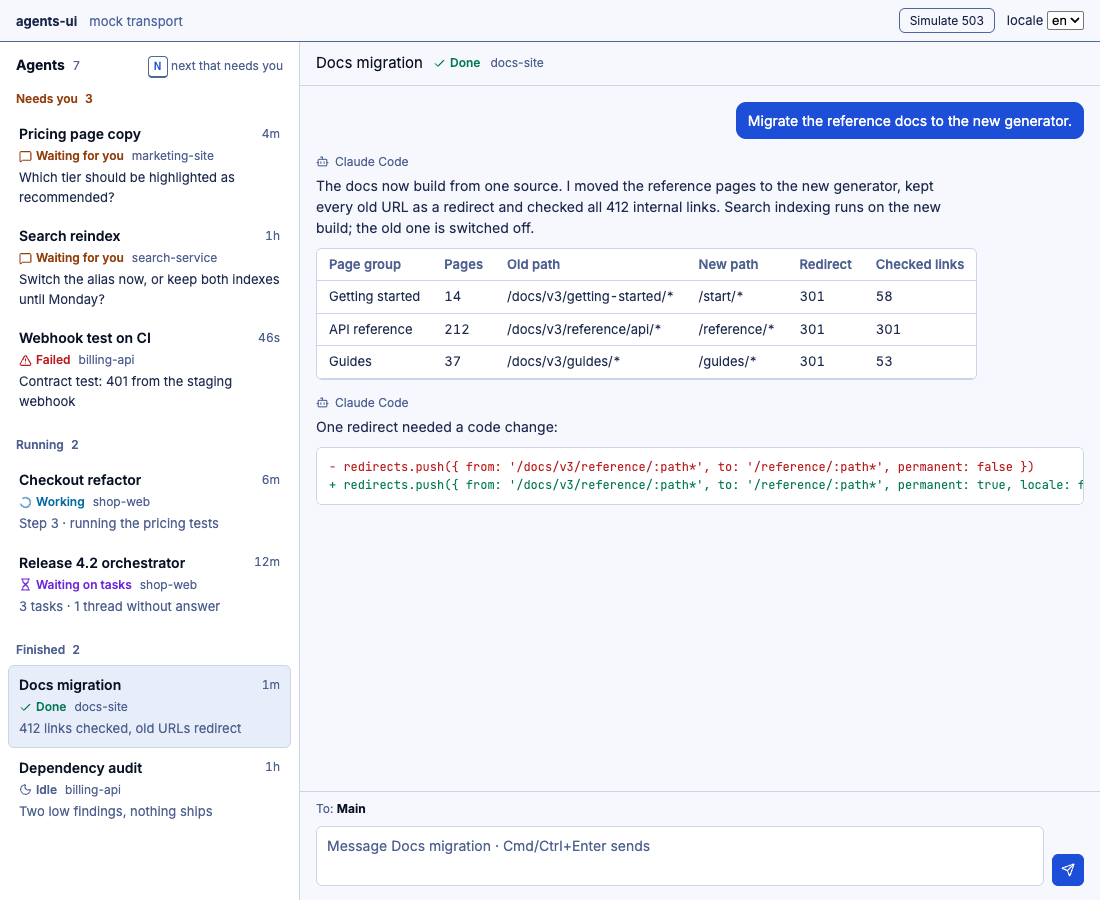
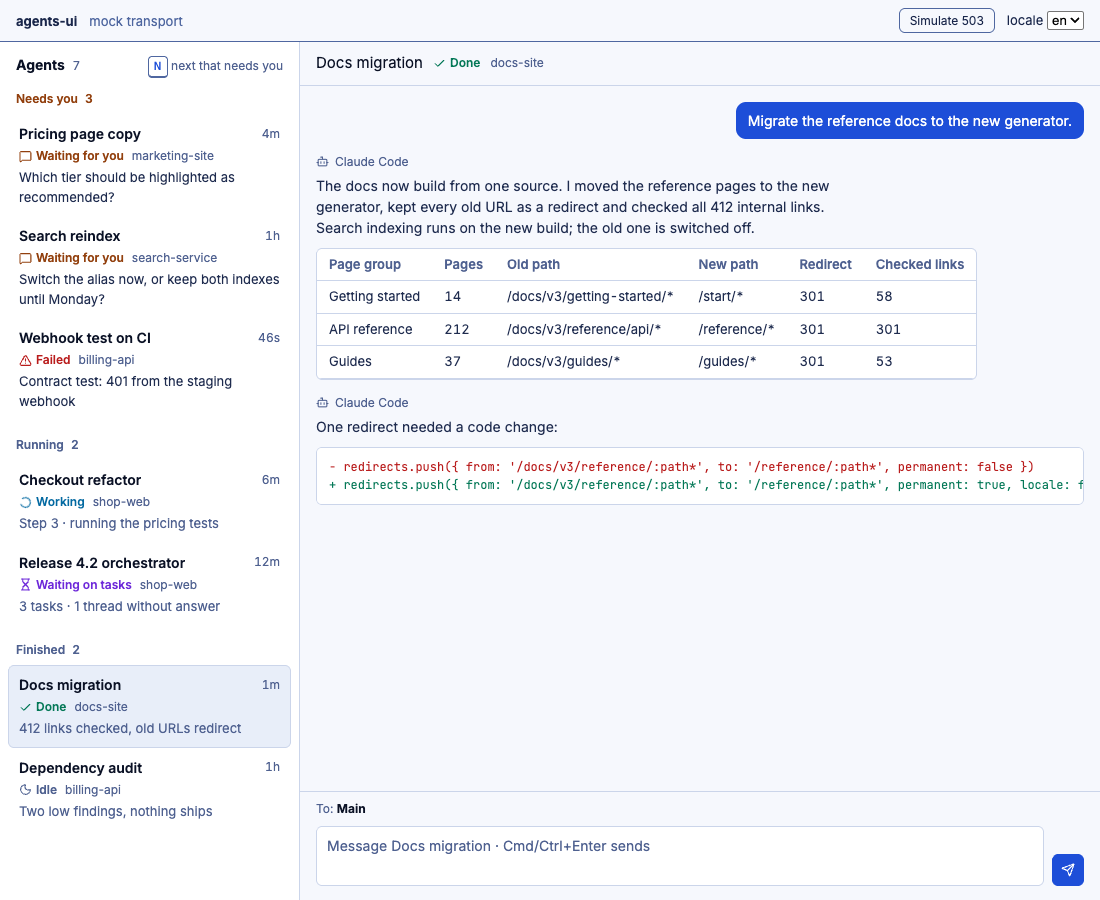
fix(demo): prototype reading width to ~74 characters, working and failed states
ch is the width of 0, so 72ch gave ~93 characters per line in Inter;
60ch measures ~74. Working pane shows its step row, answer has a send button.

Changed region(s): [[0.2782, 0.1867, 0.8655, 0.28]]

diff --git a/demo/prototype.tsx b/demo/prototype.tsx
@@ -180,6 +180,10 @@ const AGENTS: Agent[] = [
         kind: 'main',
         msgs: [
           { from: 'you', text: 'Move the tax rounding into one place and update the call sites.' },
+          {
+            from: 'agent',
+            text: 'Moved the rounding into pricing/round.ts and updated the three call sites. Running the pricing tests now.',
+          },
         ],
       },
     ],
@@ -623,6 +627,12 @@ function Pane({
             <button className="p-btn">Send answer</button>
           </div>
           <p className="p-muted">{agent.question.options.find((o) => o.value === answer)?.hint}</p>
+        </div>
+      )}
+      {agent.state === 'working' && (
+        <div className="p-activity" role="status">
+          <Loader2 size={13} className="p-spin" aria-hidden /> Step 3 of this turn · npm test --
+          pricing · 41 s
         </div>
       )}
       {agent.pills && <PillBar pills={agent.pills} open={pill} onOpen={onPill} />}

diff --git a/demo/prototype.css b/demo/prototype.css
@@ -298,7 +298,7 @@
   margin-bottom: 4px;
 }
 .p-answer p {
-  max-width: 72ch;
+  max-width: 60ch;
   margin: 0;
 }
 .p-wide {
@@ -339,7 +339,7 @@
 }
 .p-failed {
   margin-top: 14px;
-  max-width: 72ch;
+  max-width: 60ch;
   display: flex;
   align-items: center;
   gap: 8px;
@@ -375,7 +375,7 @@
   background: var(--surface);
   display: grid;
   gap: 8px;
-  max-width: 72ch;
+  max-width: 60ch;
 }
 .p-ask-head {
   display: flex;
@@ -438,7 +438,7 @@
   border: 1px solid var(--line);
   border-radius: 8px;
   background: var(--surface);
-  max-width: 72ch;
+  max-width: 60ch;
 }
 .p-pill-detail header {
   display: flex;
@@ -507,4 +507,12 @@
   align-items: center;
   gap: 10px;
   flex-wrap: wrap;
+}
+.p-activity {
+  display: flex;
+  align-items: center;
+  gap: 6px;
+  padding: 0 16px 8px;
+  font-size: 12px;
+  color: var(--s-working);
 }
